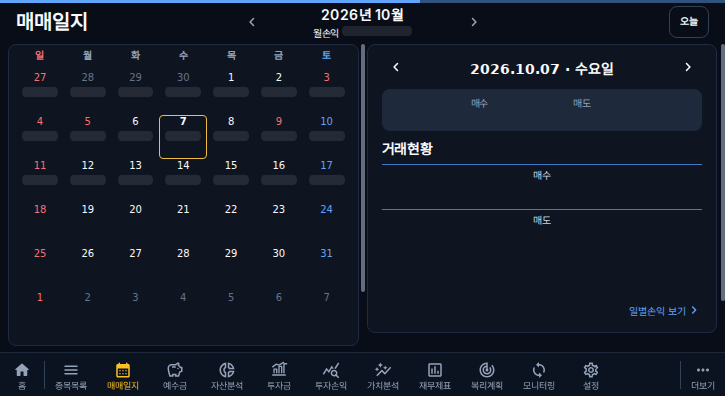
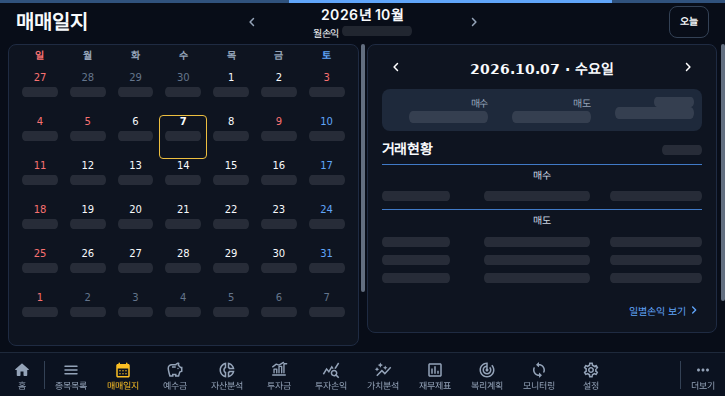
fix(phase20): preserve pending screen controls across account and code arrival

diff --git a/frontend/tests/targets/phase20-screens.spec.ts b/frontend/tests/targets/phase20-screens.spec.ts
@@ -47,11 +47,11 @@ test('fast responses leave no loading indicators; asset overview keeps card titl
  await page.goto('/detail/assets');await expect(page.getByTestId('asset-overview')).toBeVisible();await expect(page.getByText('평가손익',{exact:true}).first()).toBeVisible();await expect(page.getByTestId('asset-overview')).toContainText('165,000원');
 });
 for(const item of [{url:'/journal?date=2026-10-07',module:'journal/JournalPage',labels:['매매일지','거래현황']},{url:'/assets',module:'assets/AssetAnalysisPage',labels:['자산분석','총자산','기간 시작자산']},{url:'/stocks',module:'stocks/StockListPage',labels:['종목목록']}])test(`${item.module}: fixed shell is usable before route module arrives`,async({page})=>{
- await setup(page);let release!:()=>void;const accountReleases:Array<()=>void>=[];let accountHeld=item.url==='/stocks';if(accountHeld)await page.route('**/api/accounts',async r=>{if(accountHeld)await new Promise<void>(resolve=>accountReleases.push(resolve));return r.fallback();});await page.route(`**/src/pages/${item.module}.tsx*`,async r=>{await new Promise<void>(resolve=>release=resolve);return r.fallback();});await page.goto(item.url);await expect.poll(()=>!!release).toBe(true);for(const label of item.labels)await expect(page.getByText(label,{exact:true}).first()).toBeVisible();await expect(page.locator('main')).not.toContainText('0원');
- if(item.url==='/stocks'){await page.getByRole('textbox',{name:'목록 종목 검색'}).fill('종목1');await page.getByRole('tab',{name:'관심종목'}).click();accountHeld=false;accountReleases.splice(0).forEach(r=>r());}
+ await setup(page);let release!:()=>void;const accountReleases:Array<()=>void>=[];let accountHeld=item.url==='/stocks'||item.url==='/assets';if(accountHeld)await page.route('**/api/accounts',async r=>{if(accountHeld)await new Promise<void>(resolve=>accountReleases.push(resolve));return r.fallback();});await page.route(`**/src/pages/${item.module}.tsx*`,async r=>{await new Promise<void>(resolve=>release=resolve);return r.fallback();});await page.goto(item.url);await expect.poll(()=>!!release).toBe(true);for(const label of item.labels)await expect(page.getByText(label,{exact:true}).first()).toBeVisible();await expect(page.locator('main')).not.toContainText('0원');
+ if(item.url==='/stocks'){await page.getByRole('textbox',{name:'목록 종목 검색'}).fill('종목1');await page.getByRole('tab',{name:'관심종목'}).click();await page.getByRole('combobox',{name:'정렬 기준'}).click();accountHeld=false;accountReleases.splice(0).forEach(r=>r());}
  if(item.url==='/assets')await page.getByRole('button',{name:'3개월',exact:true}).click();release();
- if(item.url==='/stocks'){await expect(page.getByRole('textbox',{name:'목록 종목 검색'})).toHaveValue('종목1');await expect(page.getByRole('tab',{name:'관심종목'})).toHaveAttribute('aria-selected','true');await page.evaluate(()=>{localStorage.setItem('roxstock-selected-account-id','2');window.dispatchEvent(new Event('roxstock-selected-account'));});await expect(page.getByRole('textbox',{name:'목록 종목 검색'})).toHaveValue('');}
- if(item.url==='/assets')await expect(page.getByRole('button',{name:'3개월',exact:true})).toHaveAttribute('aria-pressed','true');
+ if(item.url==='/stocks'){await page.getByRole('option',{name:'PER',exact:true}).click();await expect(page.getByRole('combobox',{name:'정렬 기준'})).toContainText('PER');await expect(page.getByRole('textbox',{name:'목록 종목 검색'})).toHaveValue('종목1');await expect(page.getByRole('tab',{name:'관심종목'})).toHaveAttribute('aria-selected','true');await expect(page.getByTestId('stock-list')).toContainText('내용이 없습니다.');await page.evaluate(()=>{localStorage.setItem('roxstock-selected-account-id','2');window.dispatchEvent(new Event('roxstock-selected-account'));});await expect(page.getByRole('textbox',{name:'목록 종목 검색'})).toHaveValue('');}
+ if(item.url==='/assets'){await expect(page.getByTestId('asset-analysis')).toBeVisible();await expect(page.getByRole('button',{name:'3개월',exact:true})).toHaveAttribute('aria-pressed','true');await page.getByRole('button',{name:'6개월',exact:true}).click();accountHeld=false;accountReleases.splice(0).forEach(r=>r());await expect(page.getByTestId('analysis-chart')).toBeVisible();await expect(page.getByRole('button',{name:'6개월',exact:true})).toHaveAttribute('aria-pressed','true');}
 });
 for(const item of cases)test(`${item.name}: failed initial query keeps fixed controls and retry is local`,async({page})=>{
  await setup(page);let fail=true;const route=item.name==='accounts'?'**/api/accounts':item.name==='journal'?'**/api/accounts/*/trades*':item.name==='analysis'?'**/api/accounts/*/asset-history*':'**/api/accounts/*/holdings*';

diff --git a/frontend/src/pages/stocks/StockToolbar.tsx b/frontend/src/pages/stocks/StockToolbar.tsx
@@ -1,8 +1,10 @@
 import {CloseRounded} from '@mui/icons-material';
 import {Box,IconButton,InputBase,MenuItem,Select,Stack} from '@mui/material';
+import {usePageMemory} from '../../hooks/navigation/usePageMemory';
 import {colors} from '../../styles/tokens';
 import type {StockListType} from '../../types/models';
 import {sortOptions,type StockSort} from './stockMath';
 export function StockToolbar({query,onQuery,sort,descending,tab,onSort,onDirection,compact=false}:{query:string;onQuery:(s:string)=>void;sort:StockSort;descending:boolean;tab:StockListType;onSort:(s:StockSort)=>void;onDirection:()=>void;compact?:boolean}) {
- return <Stack direction="row" spacing="8px" sx={{height:compact?36:40,alignItems:'flex-start','& > *':{height:36}}}><Box sx={{flex:1,minWidth:0,display:'flex',alignItems:'center',gap:1,pl:'8px',pr:'4px',bgcolor:colors.surface,border:`1px solid ${colors.border}`,borderRadius:'8px'}}><Box component="img" src="/stocks-v03/search.svg" alt=""/><InputBase aria-label="목록 종목 검색" value={query} onFocus={e=>e.target.select()} onChange={e=>onQuery(e.target.value)} onKeyDown={e=>{if(e.key==='Enter'&&!e.nativeEvent.isComposing){e.preventDefault();onQuery(e.currentTarget.querySelector('input')?.value??query);}}} placeholder="종목명·코드 검색" sx={{minWidth:0,flex:1,fontSize:12}}/>{query && <IconButton aria-label="검색어 지우기" onClick={()=>onQuery('')} sx={{width:24,height:28,p:0}}><CloseRounded sx={{fontSize:16}}/></IconButton>}</Box><IconButton aria-label={descending?'내림차순 · 오름차순으로 변경':'오름차순 · 내림차순으로 변경'} onClick={onDirection} sx={{width:32,border:`1px solid ${colors.border}`,bgcolor:colors.surface,borderRadius:'8px'}}><Box component="img" src="/stocks-v03/direction.svg" alt="" sx={{transform:descending?'none':'rotate(180deg)'}}/></IconButton><Select aria-label="정렬 기준" value={sort} onChange={e=>onSort(e.target.value as StockSort)} IconComponent={props=><Box component="img" {...props} src="/stocks-v03/chevron.svg" alt=""/>} sx={{width:96,bgcolor:colors.surface,borderRadius:'8px',fontSize:12,'& .MuiSelect-select':{pl:'8px',pr:'24px !important',py:0},'& .MuiSelect-icon':{right:8}}} MenuProps={{slotProps:{paper:{sx:{'& li':{fontSize:12,textAlign:'left',minHeight:36}}}}}}>{sortOptions[tab].map(([key,label])=><MenuItem key={key} value={key}>{label}</MenuItem>)}</Select></Stack>;
+ const [open,setOpen]=usePageMemory('stock-sort-open',false,{adoptInitialAccount:true});
+ return <Stack direction="row" spacing="8px" sx={{height:compact?36:40,alignItems:'flex-start','& > *':{height:36}}}><Box sx={{flex:1,minWidth:0,display:'flex',alignItems:'center',gap:1,pl:'8px',pr:'4px',bgcolor:colors.surface,border:`1px solid ${colors.border}`,borderRadius:'8px'}}><Box component="img" src="/stocks-v03/search.svg" alt=""/><InputBase aria-label="목록 종목 검색" value={query} onFocus={e=>e.target.select()} onChange={e=>onQuery(e.target.value)} onKeyDown={e=>{if(e.key==='Enter'&&!e.nativeEvent.isComposing){e.preventDefault();onQuery(e.currentTarget.querySelector('input')?.value??query);}}} placeholder="종목명·코드 검색" sx={{minWidth:0,flex:1,fontSize:12}}/>{query && <IconButton aria-label="검색어 지우기" onClick={()=>onQuery('')} sx={{width:24,height:28,p:0}}><CloseRounded sx={{fontSize:16}}/></IconButton>}</Box><IconButton aria-label={descending?'내림차순 · 오름차순으로 변경':'오름차순 · 내림차순으로 변경'} onClick={onDirection} sx={{width:32,border:`1px solid ${colors.border}`,bgcolor:colors.surface,borderRadius:'8px'}}><Box component="img" src="/stocks-v03/direction.svg" alt="" sx={{transform:descending?'none':'rotate(180deg)'}}/></IconButton><Select open={open} onOpen={()=>setOpen(true)} onClose={()=>setOpen(false)} aria-label="정렬 기준" value={sort} onChange={e=>onSort(e.target.value as StockSort)} IconComponent={props=><Box component="img" {...props} src="/stocks-v03/chevron.svg" alt=""/>} sx={{width:96,bgcolor:colors.surface,borderRadius:'8px',fontSize:12,'& .MuiSelect-select':{pl:'8px',pr:'24px !important',py:0},'& .MuiSelect-icon':{right:8}}} MenuProps={{slotProps:{paper:{sx:{'& li':{fontSize:12,textAlign:'left',minHeight:36}}}}}}>{sortOptions[tab].map(([key,label])=><MenuItem key={key} value={key}>{label}</MenuItem>)}</Select></Stack>;
 }

diff --git a/frontend/src/pages/assets/AssetAnalysisPage.tsx b/frontend/src/pages/assets/AssetAnalysisPage.tsx
@@ -37,7 +37,7 @@ export function AssetAnalysisPage() {
     else { const params = new URLSearchParams(location.search); params.delete('chart'); routeNavigate({ pathname: location.pathname, search: params.toString() }, { replace: true, state: location.state }); }
   };
   const supplied = new URLSearchParams(location.search).get('period');
-  const [period, setPeriod] = usePageMemory<AnalysisPeriod>('analysis-period', analysisPeriods.some(item => item.value === supplied) ? supplied as AnalysisPeriod : '1y');
+  const [period, setPeriod] = usePageMemory<AnalysisPeriod>('analysis-period', analysisPeriods.some(item => item.value === supplied) ? supplied as AnalysisPeriod : '1y',{adoptInitialAccount:true});
   const today = new Intl.DateTimeFormat('sv-SE', { timeZone: 'Asia/Seoul' }).format(new Date());
   const range = analysisRange(period, today);
   const [detailPeriod,setDetailPeriod]=useState<AnalysisPeriod>(period);
@@ -108,6 +108,7 @@ export function AssetAnalysisPage() {
     <AppCard data-testid="analysis-performance" sx={{ ...cardStyle, pt: 0, pb: '14px', overflow: 'visible' }}>
       <Box data-testid="analysis-sticky" sx={{ position: 'sticky', top: 0, zIndex: 2, bgcolor: colors.surface, pt: '14px', pb: '4px', borderBottom: `1px solid ${colors.border}` }}><Stack direction="row" sx={{ height: 23, gap: '8px', display: 'grid', gridTemplateColumns: 'max-content minmax(0, 1fr)', alignItems: 'end' }}><Typography data-testid="analysis-performance-title" sx={{ ...titleStyle, whiteSpace: 'nowrap' }}>기간 성과 구성</Typography><Typography data-testid="analysis-performance-period" sx={{ ...hintStyle, textAlign: 'right', fontWeight: 700, color: colors.warning }}>{label}</Typography></Stack></Box>
       <Stack data-testid="analysis-metrics-region" spacing="4px" sx={{ mt: '4px', minHeight:270,position:'relative' }}>{rows.map(row=><Box key={row.label}>{row.divider&&<Box sx={{borderTop:`1px solid ${colors.border}`,mb:'4px'}}/>}<Stack data-testid={'analysis-metric-'+row.label} direction="row" sx={{height:20,alignItems:'center',justifyContent:'space-between',gap:'8px'}}><Typography sx={{fontSize:12,color:colors.textSecondary,whiteSpace:'nowrap'}}>{row.label}</Typography><Typography sx={{fontSize:12,fontWeight:600,whiteSpace:'nowrap',textAlign:'right',color:row.signed||row.percent||row.label==='기간 종료자산'?getMarketColor(row.label==='기간 종료자산'?profit:row.value):colors.textPrimary}}>{value(historyPending,!data?.data.length?'—':row.percent?formatRate(row.value):row.signed?formatSignedWon(row.value):formatWon(row.value),90,12)}</Typography></Stack></Box>)}
+      {!historyPending&&!history.isError&&data&&!data.data.length&&<Typography role="status" sx={{position:'absolute',bottom:0,right:0,bgcolor:colors.surface,fontSize:10}}>내용이 없습니다.</Typography>}
       {history.isError&&!data&&<Button role="alert" sx={{position:'absolute',bottom:0,right:0,bgcolor:colors.surface,fontSize:10,minHeight:20}} onClick={()=>void history.refetch()}>기간 성과 조회 실패 · 다시 시도</Button>}</Stack>
       <Typography data-testid="analysis-unavailable" sx={{ ...hintStyle, mt: '8px', whiteSpace: 'normal' }}>평가손익은 기초 대비 증감, 배당은 세전, 수수료·세금은 차감 기준입니다. {summary?.reconciliationDifference != null && decimalValue(summary.reconciliationDifference) !== 0 ? `잔액 수정·과거 내역 변경 등에 따른 차이 ${formatSignedWon(decimalValue(summary.reconciliationDifference))}` : ''}{summary?.calculationUnavailableReason === 'SNAPSHOT_CAPTURE_ORDER_INVALID' ? ' 스냅샷 기록 시각 순서 불일치 · 기간 계산 불가' : data?.data.length && summary?.unrealizedChange == null ? ' 기초·기말 스냅샷 부족 · 세부 손익 계산 불가' : ''}</Typography>
     </AppCard>

diff --git a/frontend/src/hooks/navigation/usePageMemory.ts b/frontend/src/hooks/navigation/usePageMemory.ts
@@ -1,4 +1,4 @@
-import { useState, type Dispatch, type SetStateAction } from 'react';
+import { useEffect, useState, type Dispatch, type SetStateAction } from 'react';
 import { useLocation, useNavigate, type NavigateOptions, type To } from 'react-router-dom';
 import { useActiveAccount } from '../useActiveAccount';
 import { readPageMemory, writePageMemory } from './pageMemory';
@@ -29,14 +29,29 @@ export function usePageMemory<T>(name: string, initial: T | (() => T), options: 
     return saved??(typeof initial==='function'?(initial as ()=>T)():initial);
   };
   const [slot, setSlot] = useState(() => ({ key, value: read() }));
-  const value = slot.key === key ? slot.value : read();
+  useEffect(()=>{
+    if(!options.adoptInitialAccount)return;
+    const receive=(event:Event)=>{const detail=(event as CustomEvent<{key:string;value:T}>).detail;if(detail.key===key)setSlot({key,value:detail.value});};
+    window.addEventListener('roxstock-page-memory',receive);
+    return()=>window.removeEventListener('roxstock-page-memory',receive);
+  },[key,options.adoptInitialAccount]);
+  const value = options.adoptInitialAccount ? readPageMemory<T>(key) ?? (slot.key === key ? slot.value : read()) : slot.key === key ? slot.value : read();
   if (slot.key !== key) setSlot({ key, value });
-  const setValue: Dispatch<SetStateAction<T>> = update => setSlot(previous => {
-    const current = previous.key === key ? previous.value : read();
+  const setValue: Dispatch<SetStateAction<T>> = update => {
+    // Persist the event before a Suspense replacement can unmount its sender.
+    const current = readPageMemory<T>(key) ?? value;
     const next = typeof update === 'function' ? (update as (value: T) => T)(current) : update;
     writePageMemory(key, next);
-    return { key, value: next };
-  });
+    if(options.adoptInitialAccount){
+      const [account,entry,route]=JSON.parse(scope) as string[];
+      // An event from the pending shell can finish just after the first account mounts.
+      const owner=account==='unselected'?readPageMemory<string>(scope+':'+name+':initial-account-owner'):undefined;
+      const target=owner?JSON.stringify([owner,entry,route])+':'+name:key;
+      if(target!==key)writePageMemory(target,next);
+      window.dispatchEvent(new CustomEvent('roxstock-page-memory',{detail:{key:target,value:next}}));
+    }
+    setSlot({ key, value: next });
+  };
   return [value, setValue];
 }
 export function useListNavigation(inheritReturn = false) {

diff --git a/frontend/tests/targets/phase20.spec.ts b/frontend/tests/targets/phase20.spec.ts
@@ -73,5 +73,5 @@ test('fast data hides indicator, slow data shows it without moving chart or metr
  await page.clock.install({time:new Date('2026-10-07T03:00:00Z')});await page.clock.pauseAt(new Date('2026-10-07T03:00:01Z'));await page.getByRole('button',{name:'3개월',exact:true}).click();await expect.poll(()=>!!release).toBe(true);
  const skeleton=region.locator('[data-loading-indicator]');await expect(skeleton).toHaveAttribute('data-loading-indicator','waiting');await expect(skeleton).toBeHidden();
  await page.clock.runFor(250);await expect(skeleton).toBeVisible();expect((await region.boundingBox())!.height).toBe(before.height);expect((await metrics.boundingBox())!.y).toBe(before.y);
- release();await expect(page.getByTestId('analysis-chart')).toBeVisible();expect((await metrics.boundingBox())!.y).toBe(before.y);
+ release();await page.clock.resume();await expect(page.getByTestId('analysis-chart')).toBeVisible();expect((await metrics.boundingBox())!.y).toBe(before.y);
 });

diff --git a/docs/qa/phase20-screens.md b/docs/qa/phase20-screens.md
@@ -21,7 +21,7 @@
 - React API 모드 / Vite / Playwright Chromium 153, 커버 370×465·태블릿 725×396 CSS px, 서울 시간대. API는 격리된 모의 응답이며 실제 DB/운영 계좌 검증과 구분한다.
 - 최초 계좌 대기·빠른 응답·유효 캐시 재진입·기간 변경·빈 결과·부분 실패/지역 재시도·계좌 전환을 검사한다. 코드 모듈을 보류한 동안 검색/탭/기간을 조작하고 다운로드 후 같은 조건인지 확인한다.
 - 로딩/정상 달력과 자산분석 차트의 실제 bounding box가 일치한다. 커버 종목 기본 행 139px/태블릿 28px, 계좌 기본 행 61px가 일치한다. 목록 개수/긴 텍스트에 따른 높이는 실제 콘텐츠 기준이며 가상의 계좌/종목/금액은 넣지 않는다.
-- TypeScript·프론트 production build와 20차 단위/브라우저 검사 결과는 PR 검사 완료 후 아래 기록을 확정한다.
+- TypeScript·프론트 production build·20차 단위 검사 통과. 최종 브라우저/필수 CI 결과는 아래 기록 및 PR의 Checks로 확인한다.
 - 실기기 Android/WebView, 실제 운영 DB 쓰기, 지연 상태의 전 기기 네트워크 측정은 미검증이다. 추가 조회 엔드포인트/폴링은 도입하지 않았고 캐시 재진입 요청 수와 기존 홈 후속 호출 검사로 회귀를 확인한다.
 
 명령: `npm run typecheck:frontend`, `npm run build:frontend`, `node --import tsx --test frontend/tests/unit/phase20.test.ts`, `npm exec --workspace frontend -- playwright test --config playwright.phase20.config.ts`. 로컬 Chromium 실행 경로만 환경변수로 지정하며 패키지/잠금파일은 변경하지 않는다.
@@ -38,6 +38,13 @@
 | 종목목록 | [전](assets/phase20-screens/before/stocks-cover-loading.png) · [후](assets/phase20-screens/after/stocks-cover-loading.png) | [전](assets/phase20-screens/before/stocks-tablet-loading.png) · [후](assets/phase20-screens/after/stocks-tablet-loading.png) | [커버](assets/phase20-screens/after/stocks-cover-ready.png) · [태블릿](assets/phase20-screens/after/stocks-tablet-ready.png) |
 
 기준 main의 ready 캡처도 before 디렉터리에 보존한다. CI `Phase20 Input and Loading` artifact에는 지연/실패 추적과 captures를 보관한다.
+
+## 검사 기록
+
+- 초기 탐색 검사에서 출력 디렉터리 공유 충돌을 분리했고, 코드 대기→실제 화면/첫 계좌 전환 시 검색·정렬 메뉴·선택값 유실을 수정했다. API 응답 이후 검사용 일시 정지 시계를 재개하도록 보정했다. 실패를 통과로 집계하지 않는다.
+- 최종 로컬 화면별 검사 32개 통과(2.0분), 정렬/화면 교체 경계는 커버·태블릿·큰 화면에서 각 3회 반복해 9개 통과. 추가 코드 대기/계좌 대기/시계 검사 8개 통과. 전체 회귀는 최종 PR Checks에서 재확인한다.
+- 전체 20차 CI에는 기존 홈·18차·16차·가치분석 회귀를 포함한 114개 검사를 사용한다. 최종 상태는 [PR #190 Checks](https://github.com/byungho-cho/roxstock/pull/190/checks)를 기준으로 하며, 모든 필수 검사 통과 전에는 병합하지 않는다.
+- 구조 조기 표시를 위해 공통 Select/화면 틀을 초기 번들에 포함한다. 기준 main의 entry gzip 109.14kB → 수정 build 139.75kB (+30.61kB). 실제 기기 다운로드/paint 시간은 미측정이며 화면 본체·편집기는 lazy loading을 유지한다.
 
 ## 병합·운영
 

diff --git a/docs/development/phase20.md b/docs/development/phase20.md
@@ -28,3 +28,7 @@
 검증/전후 캡처: [화면별 QA](../qa/phase20-screens.md). 변경된 계좌 모듈 경계에 맞춰 기존 '설정 편집 코드 지연' 검사도 갱신한다. 명세상 일반 입력의 포커스/히스토리 동작은 그대로 유지한다. 이번 요청은 운영 배포 완료를 확인해 보고하는 범위다.
 
 종목 검색·정렬은 첫 계좌가 확인되기 전에 입력한 조건을 해당 history entry의 최초 계좌에 한 번만 이어받는다 (`usePageMemory`의 opt-in `adoptInitialAccount`). 이후 다른 계좌는 자체 저장 조건을 사용한다. 표시 데이터 query key/요청 취소/캐시는 변경하지 않는다. 코드 대기 및 계좌 대기를 동시에 보류하는 회귀 검사로 이 전환을 검증한다.
+
+코드/계좌 전환 경계에서 열린 정렬 메뉴도 같은 페이지 메모리를 사용한다. 입력 이벤트는 컴포넌트가 교체되기 전에 동기 저장하며, 이미 첫 계좌로 전환된 경우 그 최초 소유자에게만 전달한다. 이 opt-in 경로의 UI 메모리 알림은 API 캐시·계좌 데이터와 분리되어 추가 조회를 발생시키지 않는다.
+
+자산분석 기간 선택에도 최초 계좌 조건 인계를 적용한다. 계좌 조회 대기 중 선택한 기간이 첫 계좌 도착으로 초기화되지 않으며 계좌별 저장 조건은 분리한다.
